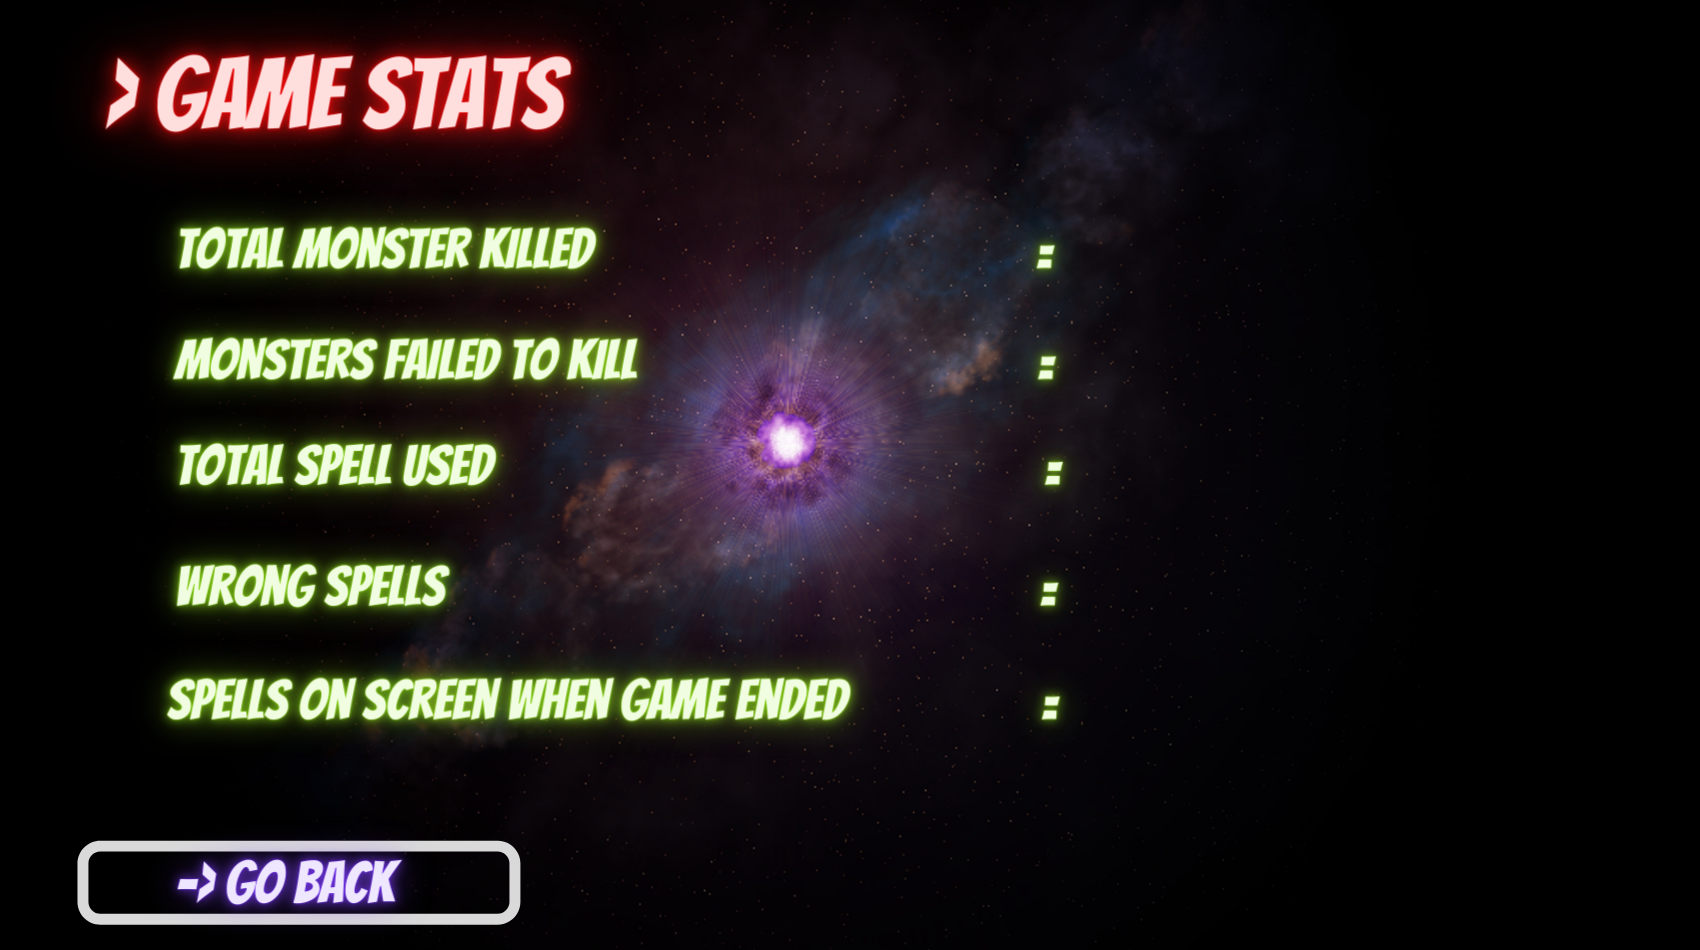
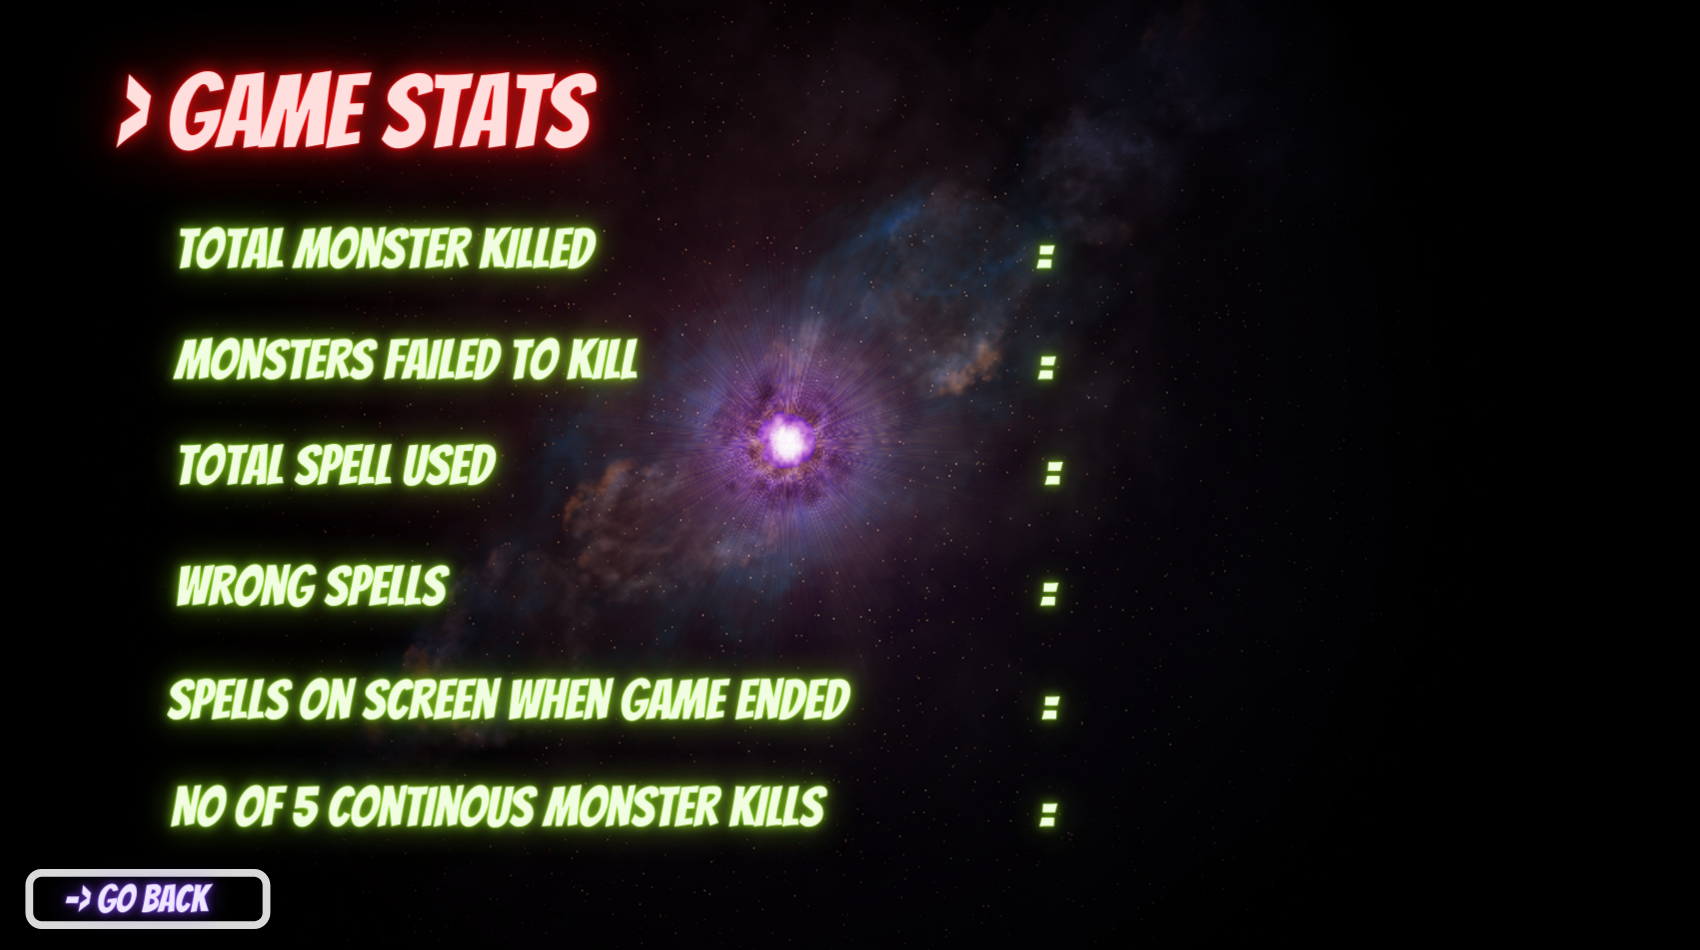
5 continuous kill added in stats screen
more stats available

Changed region(s): [[0.0, 0.7937, 0.4988, 0.9768], [0.0624, 0.0305, 0.3741, 0.1832], [0.5924, 0.8242, 0.6235, 0.8853]]

diff --git a/core/src/com/mygdx/game/StatsScreens.java b/core/src/com/mygdx/game/StatsScreens.java
@@ -17,6 +17,7 @@ public class StatsScreens implements Screen {
     Score monsterSpellUsed ;
     Score monsterSpellMiss ;
     Score monsterSpellOnScreen ;
+    Score monsterContinousKills;
 
     Texture statsScreen ;
 
@@ -39,6 +40,7 @@ public class StatsScreens implements Screen {
         monsterSpellUsed = new Score(game.batch);
         monsterSpellMiss = new Score(game.batch);
         monsterSpellOnScreen = new Score(game.batch);
+        monsterContinousKills = new Score(game.batch);
 
         SoundManager.create();
         SoundManager.end.setLooping(true);
@@ -49,11 +51,6 @@ public class StatsScreens implements Screen {
             showMute = false;
         }
         else showMute = true;
-
-        System.out.println(AirWaterScreen.totalSpellCnt);
-        System.out.println(AirWaterScreen.totalSpellMissCnt);
-        System.out.println(AirWaterScreen.totalMonsterHitCnt);
-        System.out.println(AirWaterScreen.totalMonsterMissCnt);
     }
 
 
@@ -83,6 +80,10 @@ public class StatsScreens implements Screen {
         monsterSpellOnScreen.plusWeight = 500;
         monsterSpellOnScreen.score = AirWaterScreen.totalSpellCnt - AirWaterScreen.totalSpellMissCnt- AirWaterScreen.totalMonsterHitCnt;
 
+        monsterContinousKills.digitY = 100+27 ;
+        monsterContinousKills.plusWeight = 500;
+        monsterContinousKills.score = AirWaterScreen.totalConsecutiveKillsCnt;
+
     }
 
     @Override
@@ -100,7 +101,7 @@ public class StatsScreens implements Screen {
         monsterSpellUsed.render(game.batch);
         monsterSpellMiss.render(game.batch);
         monsterSpellOnScreen.render(game.batch);
-
+        monsterContinousKills.render(game.batch);
 
         game.batch.end();
 
@@ -109,9 +110,9 @@ public class StatsScreens implements Screen {
     public void button()
     {
 
-        if (Gdx.input.getX() >= 77 && Gdx.input.getX() <= 520 &&
-                MyGdxGame.SCREEN_HEIGHT - Gdx.input.getY() >= 25
-                && MyGdxGame.SCREEN_HEIGHT - Gdx.input.getY() <= 108) {
+        if (Gdx.input.getX() >= 27 && Gdx.input.getX() <= 271 &&
+                MyGdxGame.SCREEN_HEIGHT - Gdx.input.getY() >= 23
+                && MyGdxGame.SCREEN_HEIGHT - Gdx.input.getY() <= 82) {
             if (Gdx.input.justTouched()) {
                 this.dispose();
                 SoundManager.click.play();
